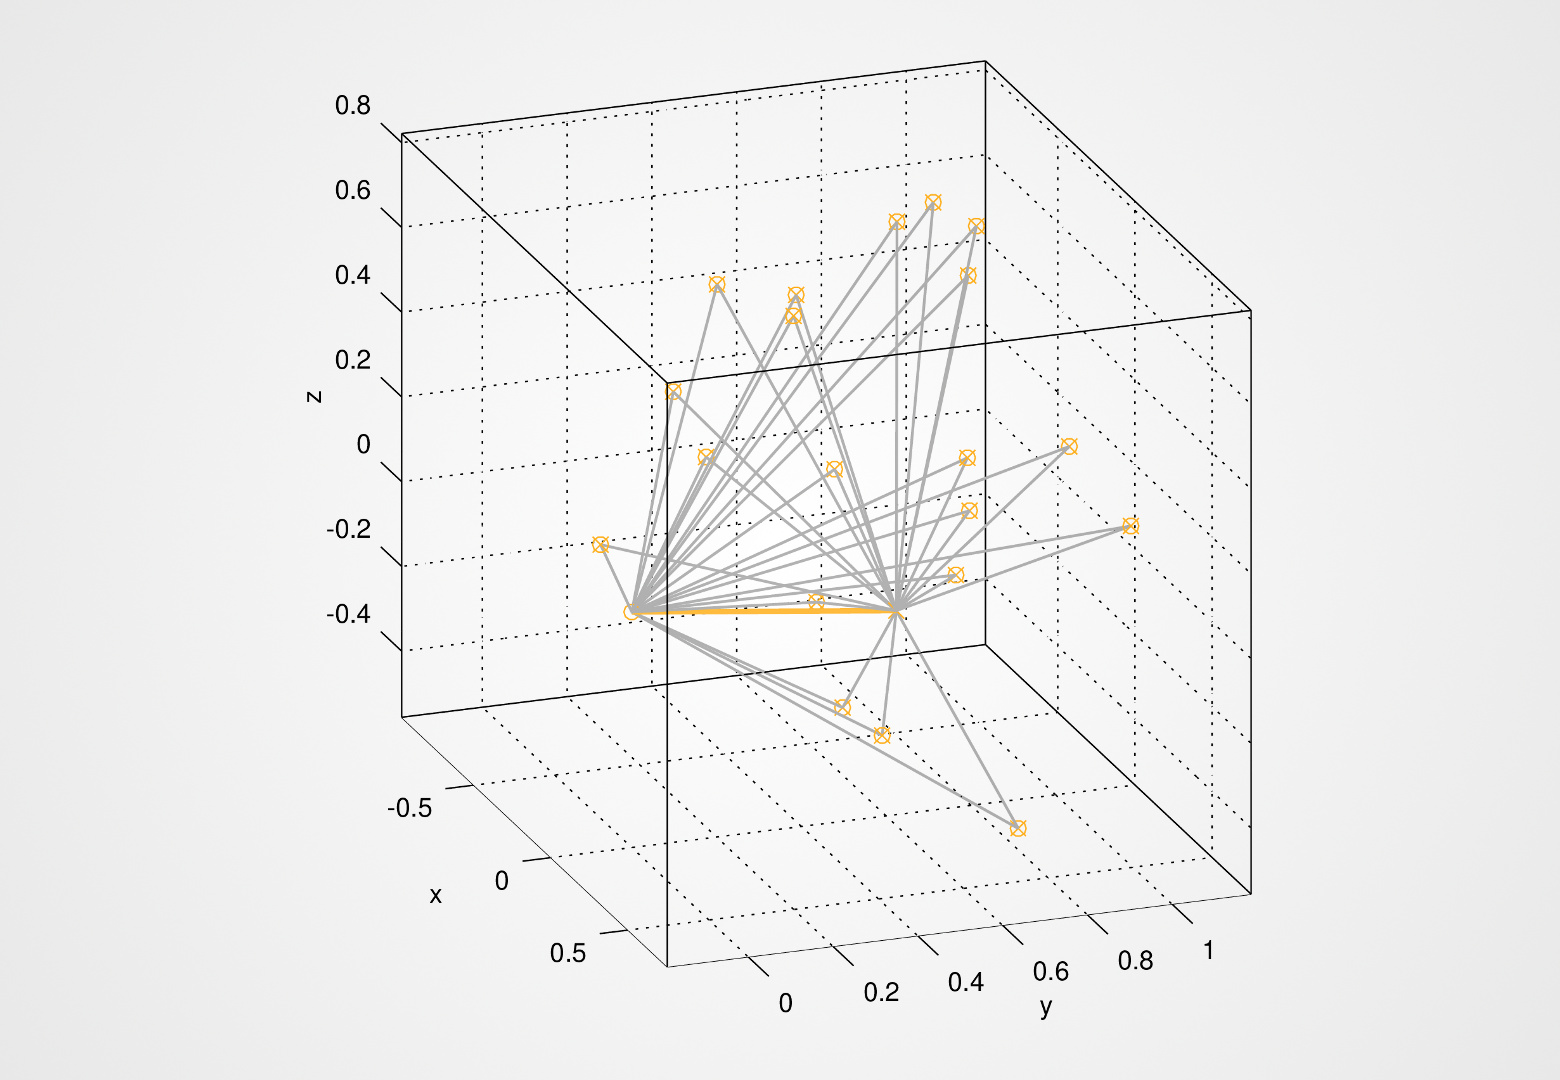
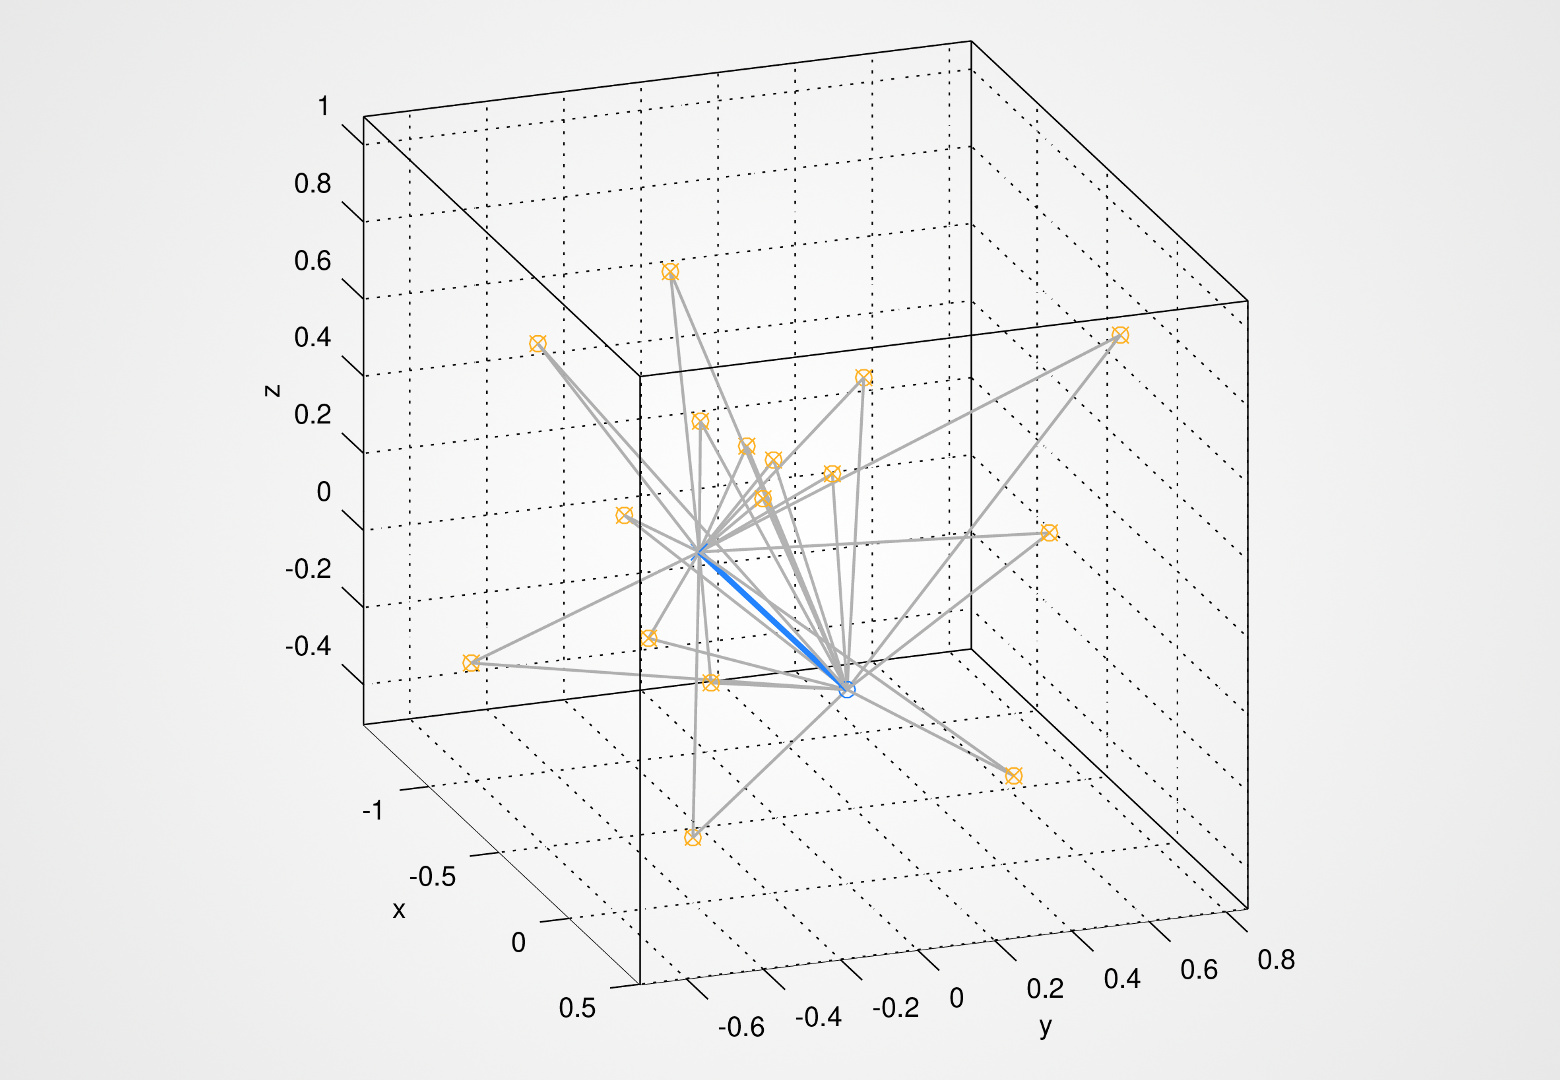
Correction of plots for the README

diff --git a/src/algorithm/algorithm_plot_scene.m b/src/algorithm/algorithm_plot_scene.m
@@ -41,7 +41,7 @@
         end
 
         % display epipolar line %
-        plot3( [ 0, sc_t(1) ], [ 0, sc_t(2) ], [ 0, sc_t(3) ], '-r', 'color', [ 255 187 61 ] / 255, 'linewidth', 2 );
+        plot3( [ 0, sc_t(1) ], [ 0, sc_t(2) ], [ 0, sc_t(3) ], '-', 'color', [ 36 131 255 ] / 255, 'linewidth', 2 );
 
         % display camera center %
         plot3( 0, 0, 0, 'o', 'color', [ 36 131 255 ] / 255 );

diff --git a/README.md b/README.md
@@ -64,7 +64,7 @@ To estimate the pose between the two captures, the algorithm uses an iterative a
 &nbsp;
 <img src="https://github.com/nils-hamel/spherical-camera/blob/master/doc/image/algorithm-1b.jpg?raw=true" width="384">
 <br />
-<i>Last algorithm iteration state on theoretical cases. The yellow line gives the vector between the two camera center while the grey lines link the camera center to the estimated position of matched features - Images : Nils Hamel</i>
+<i>Last algorithm iteration state on theoretical cases. The blue line gives the vector between the two camera center while the grey lines link the camera center to the estimated position of matched features - Images : Nils Hamel</i>
 </p>
 <br />
 
